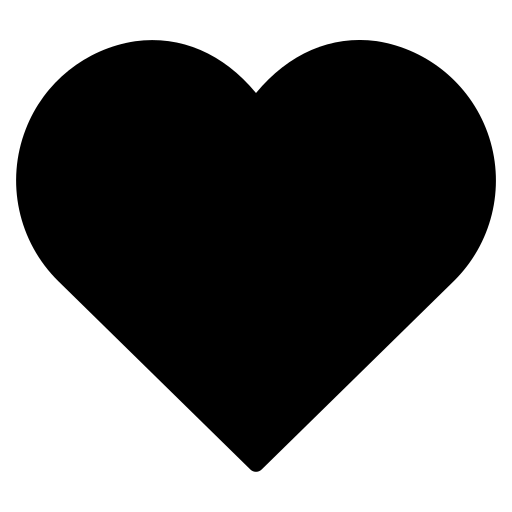
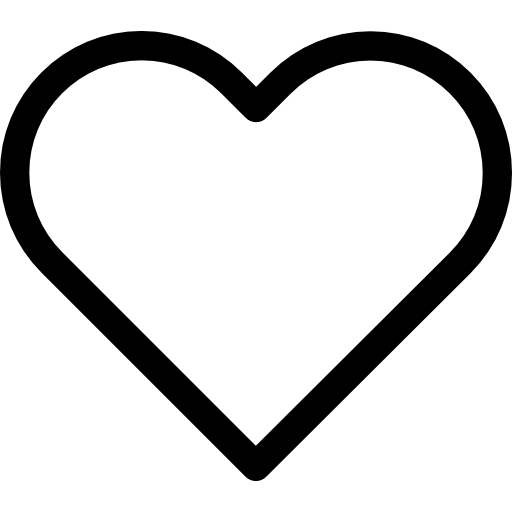
wihslit

diff --git a/src/context/FoodItemContext.jsx b/src/context/FoodItemContext.jsx
@@ -8,19 +8,20 @@ const FoodItemProvider = ({children}) => {
   const LAPTOP_IP = process.env.LAPTOP_IP;
   const BACKEND_URL = process.env.BACKEND_URL;
   const [modalVisible, setModalVisible] = useState(false);
-  const [isfilterOpen, setisFilterOpen] = useState(false);      
+  const [isfilterOpen, setisFilterOpen] = useState(false);
   const [cartItems, setCartItems] = useState({});
   const [foodList, setFoodlist] = useState([]);
   const delevery_fees = 10;
-
-  // menu state 
+  
+  // menu state
   const [category, setCategory] = useState('Veg');
   const [selectedSubCategory, setSelectedSubCategory] = useState([]);
-
+  
   // search state
-  const [searchTerm, setSearchTerm] = useState("");
+  const [searchTerm, setSearchTerm] = useState('');
   const [searchFilter, setSearchFilter] = useState([]);
-
+  const [wishlistLoaded, setWishlistLoaded] = useState(false);
+  const [WishlistItems, setWishlistItems] = useState([]);
 
   const addToCart = async itemId => {
     if (!cartItems[itemId]) {
@@ -61,8 +62,12 @@ const FoodItemProvider = ({children}) => {
       return updateCart;
     });
 
-    if(token){
-      await axios.post(BACKEND_URL +"api/cart/delete",{itemId}, {headers:{token}})
+    if (token) {
+      await axios.post(
+        BACKEND_URL + 'api/cart/delete',
+        {itemId},
+        {headers: {token}},
+      );
     }
   };
 
@@ -88,37 +93,71 @@ const FoodItemProvider = ({children}) => {
     const response = await axios.get(`${BACKEND_URL}api/food/list`);
     setFoodlist(response.data.products);
   };
-    
+
   const loadCartData = async token => {
     const response = await axios.get(`${BACKEND_URL}api/cart/get`, {
-      headers: {token}, 
+      headers: {token},
     });
     setCartItems(response.data.cartData);
   };
 
   const handleSearchItems = () => {
-    if(!searchTerm ||searchTerm.trim() === ""){
+    if (!searchTerm || searchTerm.trim() === '') {
       setSearchFilter([]);
-    } 
-    else {
-      const filterData = foodList.filter((item) => 
-      item.name.toLowerCase().includes(searchTerm.toLowerCase()))
+    } else {
+      const filterData = foodList.filter(item =>
+        item.name.toLowerCase().includes(searchTerm.toLowerCase()),
+      );
       setSearchFilter(filterData);
     }
-  }
+  };
+
+  const getWishlist = async () => {
+    try {
+      const response = await axios.post(
+        `${LAPTOP_IP}:4000/api/wishlist/get`,
+        {},
+        {headers: {token}},
+      );
+      const items = response?.data?.wishlist?.items;
+
+        setWishlistItems(items);
+        setWishlistLoaded(true)
+
+    } catch (error) {
+      console.log('Error fetching wishlist', error);
+      setWishlistLoaded(true)
+    }
+  };
+
+  const addToWishlist = async itemId => {
+    try {
+      const response = await axios.post(
+        `${LAPTOP_IP}:4000/api/wishlist/add`,
+        {itemId}, // <- only itemId in body
+        {headers: {token}},
+      );
+
+      if (response.data && response.data.wishlist) {
+        setWishlistItems(response.data.wishlist.items);
+      }
+    } catch (error) {
+      console.log('Error adding to wishlist', error);
+    }
+  };
 
   useEffect(() => {
     const loadData = async () => {
       try {
         await fetchFoodList();
-        console.log(LAPTOP_IP)
         if (token) {
           await loadCartData(token);
+          await getWishlist();
         }
       } catch (error) {
         console.log(error);
       }
-    };  
+    };
     loadData();
   }, [token]);
 
@@ -149,7 +188,12 @@ const FoodItemProvider = ({children}) => {
     setSearchTerm,
     setSearchFilter,
     searchFilter,
-    handleSearchItems
+    handleSearchItems,
+
+    WishlistItems,
+    setWishlistItems,
+    addToWishlist,
+    wishlistLoaded
   };
 
   return (

diff --git a/src/component/ProductItem.jsx b/src/component/ProductItem.jsx
@@ -3,9 +3,13 @@ import React, {useContext, useState} from 'react';
 import {FoodItemContext} from '../context/FoodItemContext';
 import {useNavigation} from '@react-navigation/native';
 const ProductItem = ({item}) => {
-  const {cartItems, updateCartItems, addToCart} = useContext(FoodItemContext);
-  const[wishlist, setWhishlist] = useState(false);
+  const {cartItems, updateCartItems, addToCart, addToWishlist, WishlistItems, wishlistLoaded} =
+    useContext(FoodItemContext);
+
   const navigation = useNavigation();
+
+  const isInWishlist = itemId => WishlistItems?.includes(itemId);
+
   return (
     <TouchableOpacity
       style={styles.productContainer}
@@ -25,8 +29,30 @@ const ProductItem = ({item}) => {
           </Text>
         </View>
 
-        <TouchableOpacity style={styles.favoriteContainer} activeOpacity={0.7}>
-          <Image style={styles.favoriteImage} source={require("../assets/favorite.png")} />
+        <TouchableOpacity
+          onPress={() => addToWishlist(item._id)}
+          style={styles.favoriteContainer}
+          activeOpacity={0.7}>
+          {wishlistLoaded ? (
+    <Image
+      style={[
+        styles.favoriteImage,
+        {
+          tintColor: isInWishlist(item._id) ? 'red' : 'white',
+        },
+      ]}
+      source={
+        isInWishlist(item._id)
+          ? require('../assets/favorite_full.png')
+          : require('../assets/favorite.png')
+      }
+    />
+  ) : (
+    <Image
+      style={[styles.favoriteImage, {tintColor: 'gray'}]}
+      source={require('../assets/favorite.png')}
+    />
+  )}
         </TouchableOpacity>
       </View>
 
@@ -47,7 +73,7 @@ const ProductItem = ({item}) => {
           <Text style={styles.originalPrice}>₹{item.original_price}</Text>
         </Text>
       </View>
-      
+
       <View style={styles.priceandbtn}>
         {!(cartItems && cartItems[item._id]) ? (
           <TouchableOpacity
@@ -100,15 +126,15 @@ const styles = StyleSheet.create({
     borderRadius: 7,
   },
   favoriteContainer: {
-    position:'absolute',
-    top:3,
-    right:3,
+    position: 'absolute',
+    top: 3,
+    right: 3,
   },
-  favoriteImage:{
-    width:30,
-    height:30,
-    resizeMode:'contain',
-    tintColor:'red',
+  favoriteImage: {
+    width: 30,
+    height: 30,
+    resizeMode: 'contain',
+    tintColor: 'red',
   },
   categoryText: {
     fontSize: 12,
@@ -208,7 +234,7 @@ const styles = StyleSheet.create({
     tintColor: 'white',
   },
   plusbtn: {
-     width: 60,
+    width: 60,
     height: 60,
     tintColor: 'white',
   },
